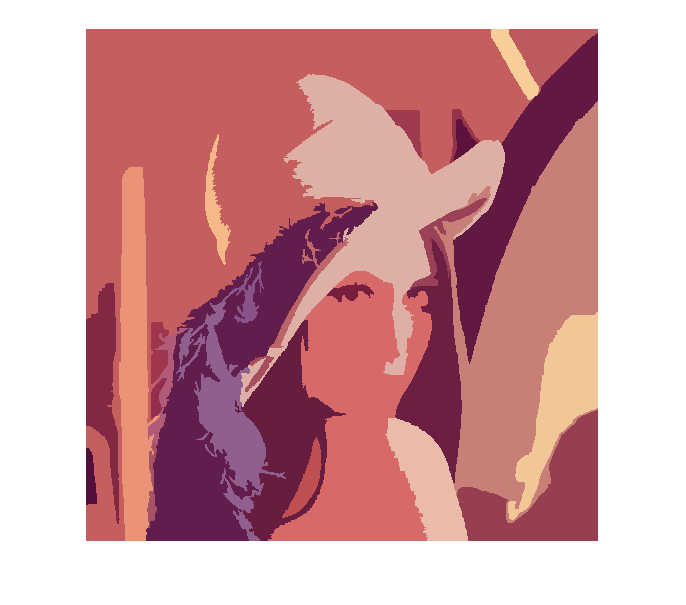
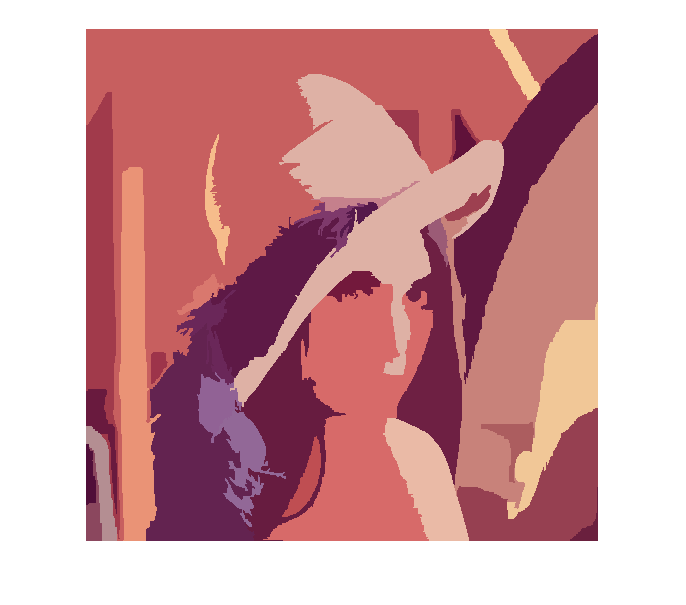
ycbcr v1; need modified diff equation and threshold

diff --git a/segment_fast_algo_ycbcr.m b/segment_fast_algo_ycbcr.m
@@ -1,18 +1,21 @@
-img = double(imread("lena_color.png"));
+img = imread("lena_color.png");
+img = double(rgb2ycbcr(img));
+% threshold need to be modified
+% diff equation is not the same
 tic
 % fast algorithm
-th = 30;
+th = 10;
 sz = size(img);
 min_pixel = ceil(512*512/1000);
 R = zeros(sz(1:2));
 m_n_list = zeros(0,4); %A: 1, B: 2
 % edge finding with sign gaussian filter
-sigma = 1; ch=10; cv=1;
+sigma = 1; ch=0; cv=0;
 t = [-10:10];
 sgf = sign(t).*exp(-sigma.*abs(t));
 ghrgb = convn(img, sgf,'same').*ch;
 gvrgb = convn(img, sgf','same').*cv;
-lambda = [0.3, 0.3, 0.3]./3;
+lambda = [0.1, 0.4, 0.4]./3;
 
 r_cnt = 0;
 for m = 1:sz(1)
@@ -117,4 +120,5 @@ end
 imgout = cat(3, rlayer,blayer);
 imgout = cat(3, imgout,glayer);
 imgout = uint8(imgout);
+imgout = ycbcr2rgb(imgout);
 imshow(imgout);

diff --git a/segment_fast_algo_20221001.m b/segment_fast_algo_20221001.m
@@ -8,12 +8,12 @@ R = zeros(size(img));
 m_n_list = zeros(0,2); %A: 1, B: 2
 init = true;
 % edge finding with sign gaussian filter
-sigma = 10; ch=1; cv=100;
+sigma = 1; ch=1; cv=1;
 t = [-10:10];
-sgf = sign(t).*exp(-sigma*abs(t));
+sgf = sign(t).*exp(-sigma.*abs(t));
 gh = conv2(img, sgf,'same').*ch;
 gv = conv2(img, sgf','same').*cv;
-lambda = 0.1;
+lambda = 1;
 
 sz = size(img);
 r_cnt = 0;
